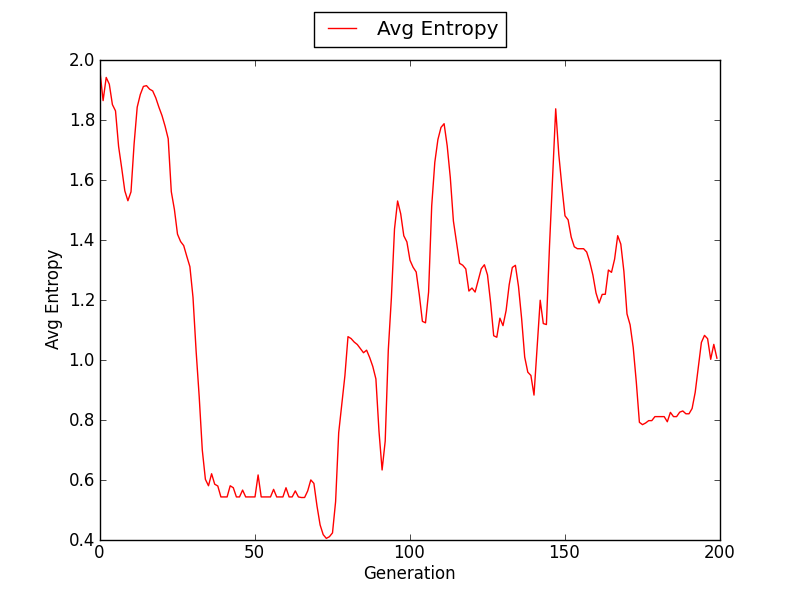
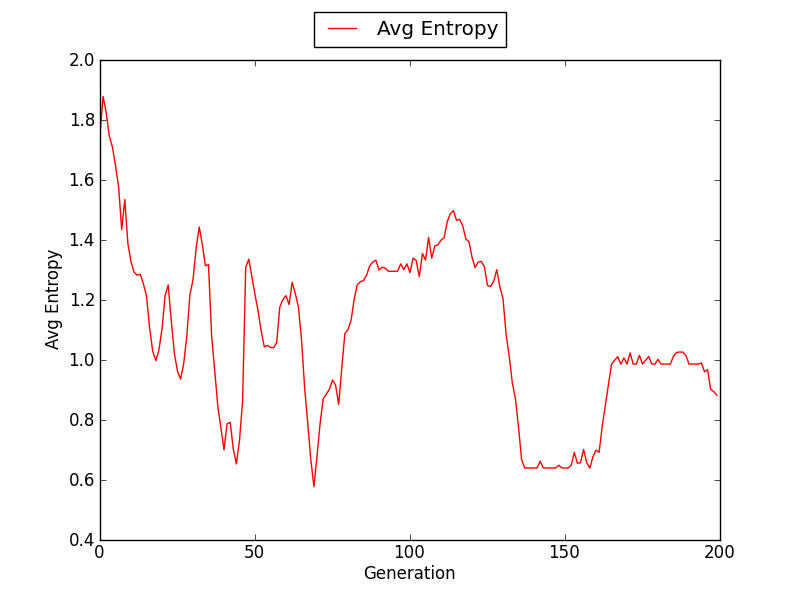
Final documentation

diff --git a/project1/code/A/blotto_main.py b/project1/code/A/blotto_main.py
@@ -251,14 +251,14 @@ std_values = {
     'pop_size':  20,
     'mutation_probability': 0.04,
     'birth_probability': 0.35,
-    'geno_size': 5, # Battles
+    'geno_size': 20, # Battles
     'generations': 200,
     'protocol': 'FullReplacement',
     'mechanism': 'SigmaScaling',
     'reproduction': 'BinaryUniformCrossover',
     'elitism': 2,
     'truncation': 0,
-    'reployment': 1.0,
+    'reployment': 0.3,
     'reduction': 1.0
 }
 
